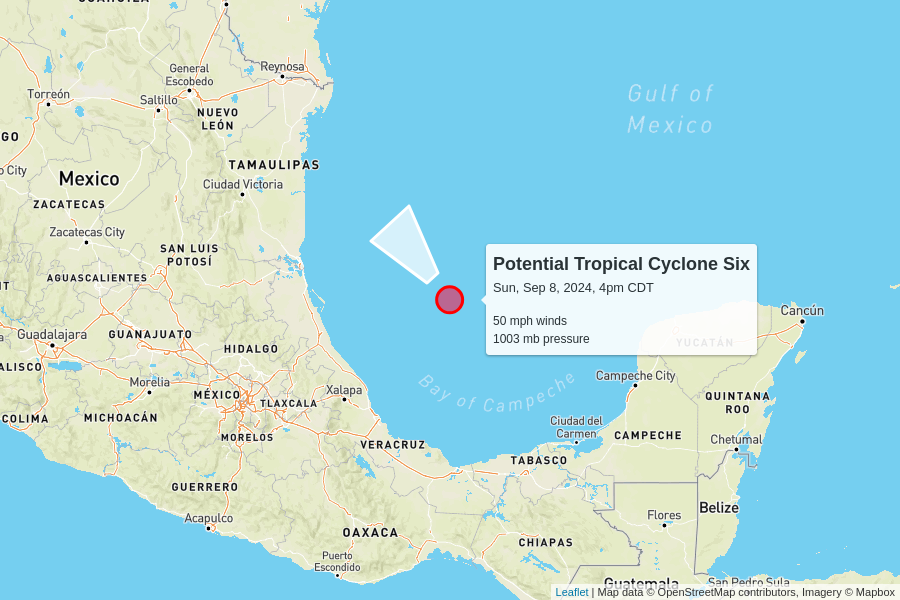
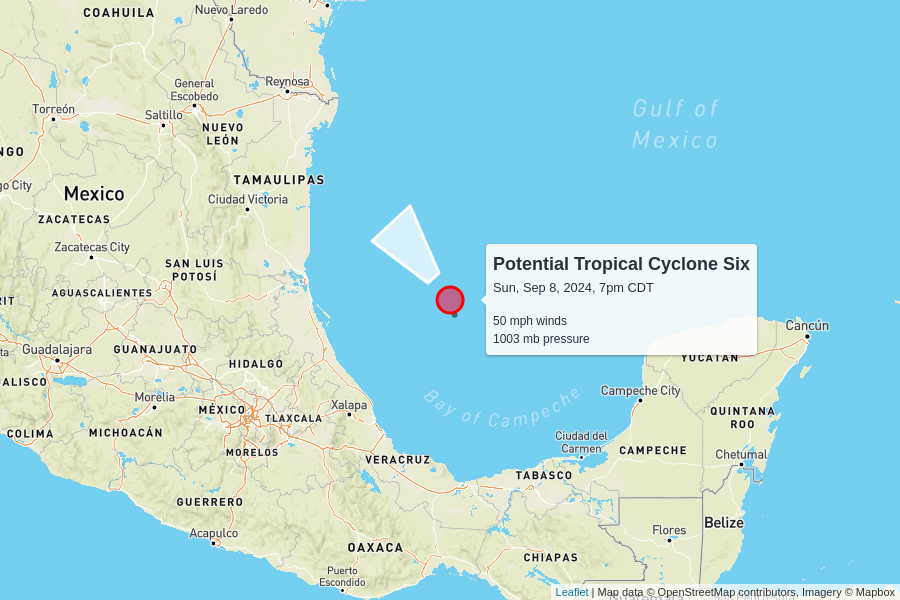
automatic update

diff --git a/docs/index.html b/docs/index.html
@@ -102,7 +102,7 @@
         <td colspan="6" class="storm category-0" >
           <h2>
             Potential Tropical Cyclone Six
-            <p class="updated">last updated <span data-time>2024-09-08T21:00:00.000Z</span></p>
+            <p class="updated">last updated <span data-time>2024-09-09T00:00:00.000Z</span></p>
           </h2>
         </td>
       </tr>
@@ -117,8 +117,8 @@
       </tr>
       <tr>
         <td class="spacer"></td>
-        <td>50 mph</td>
-        <td>1003 mb</td>
+        <td>50 mph<br>0 mph since last update</td>
+        <td>1003 mb<br>0 mb since last update</td>
         <td>
           5 mph to the northwest
           <br/>
